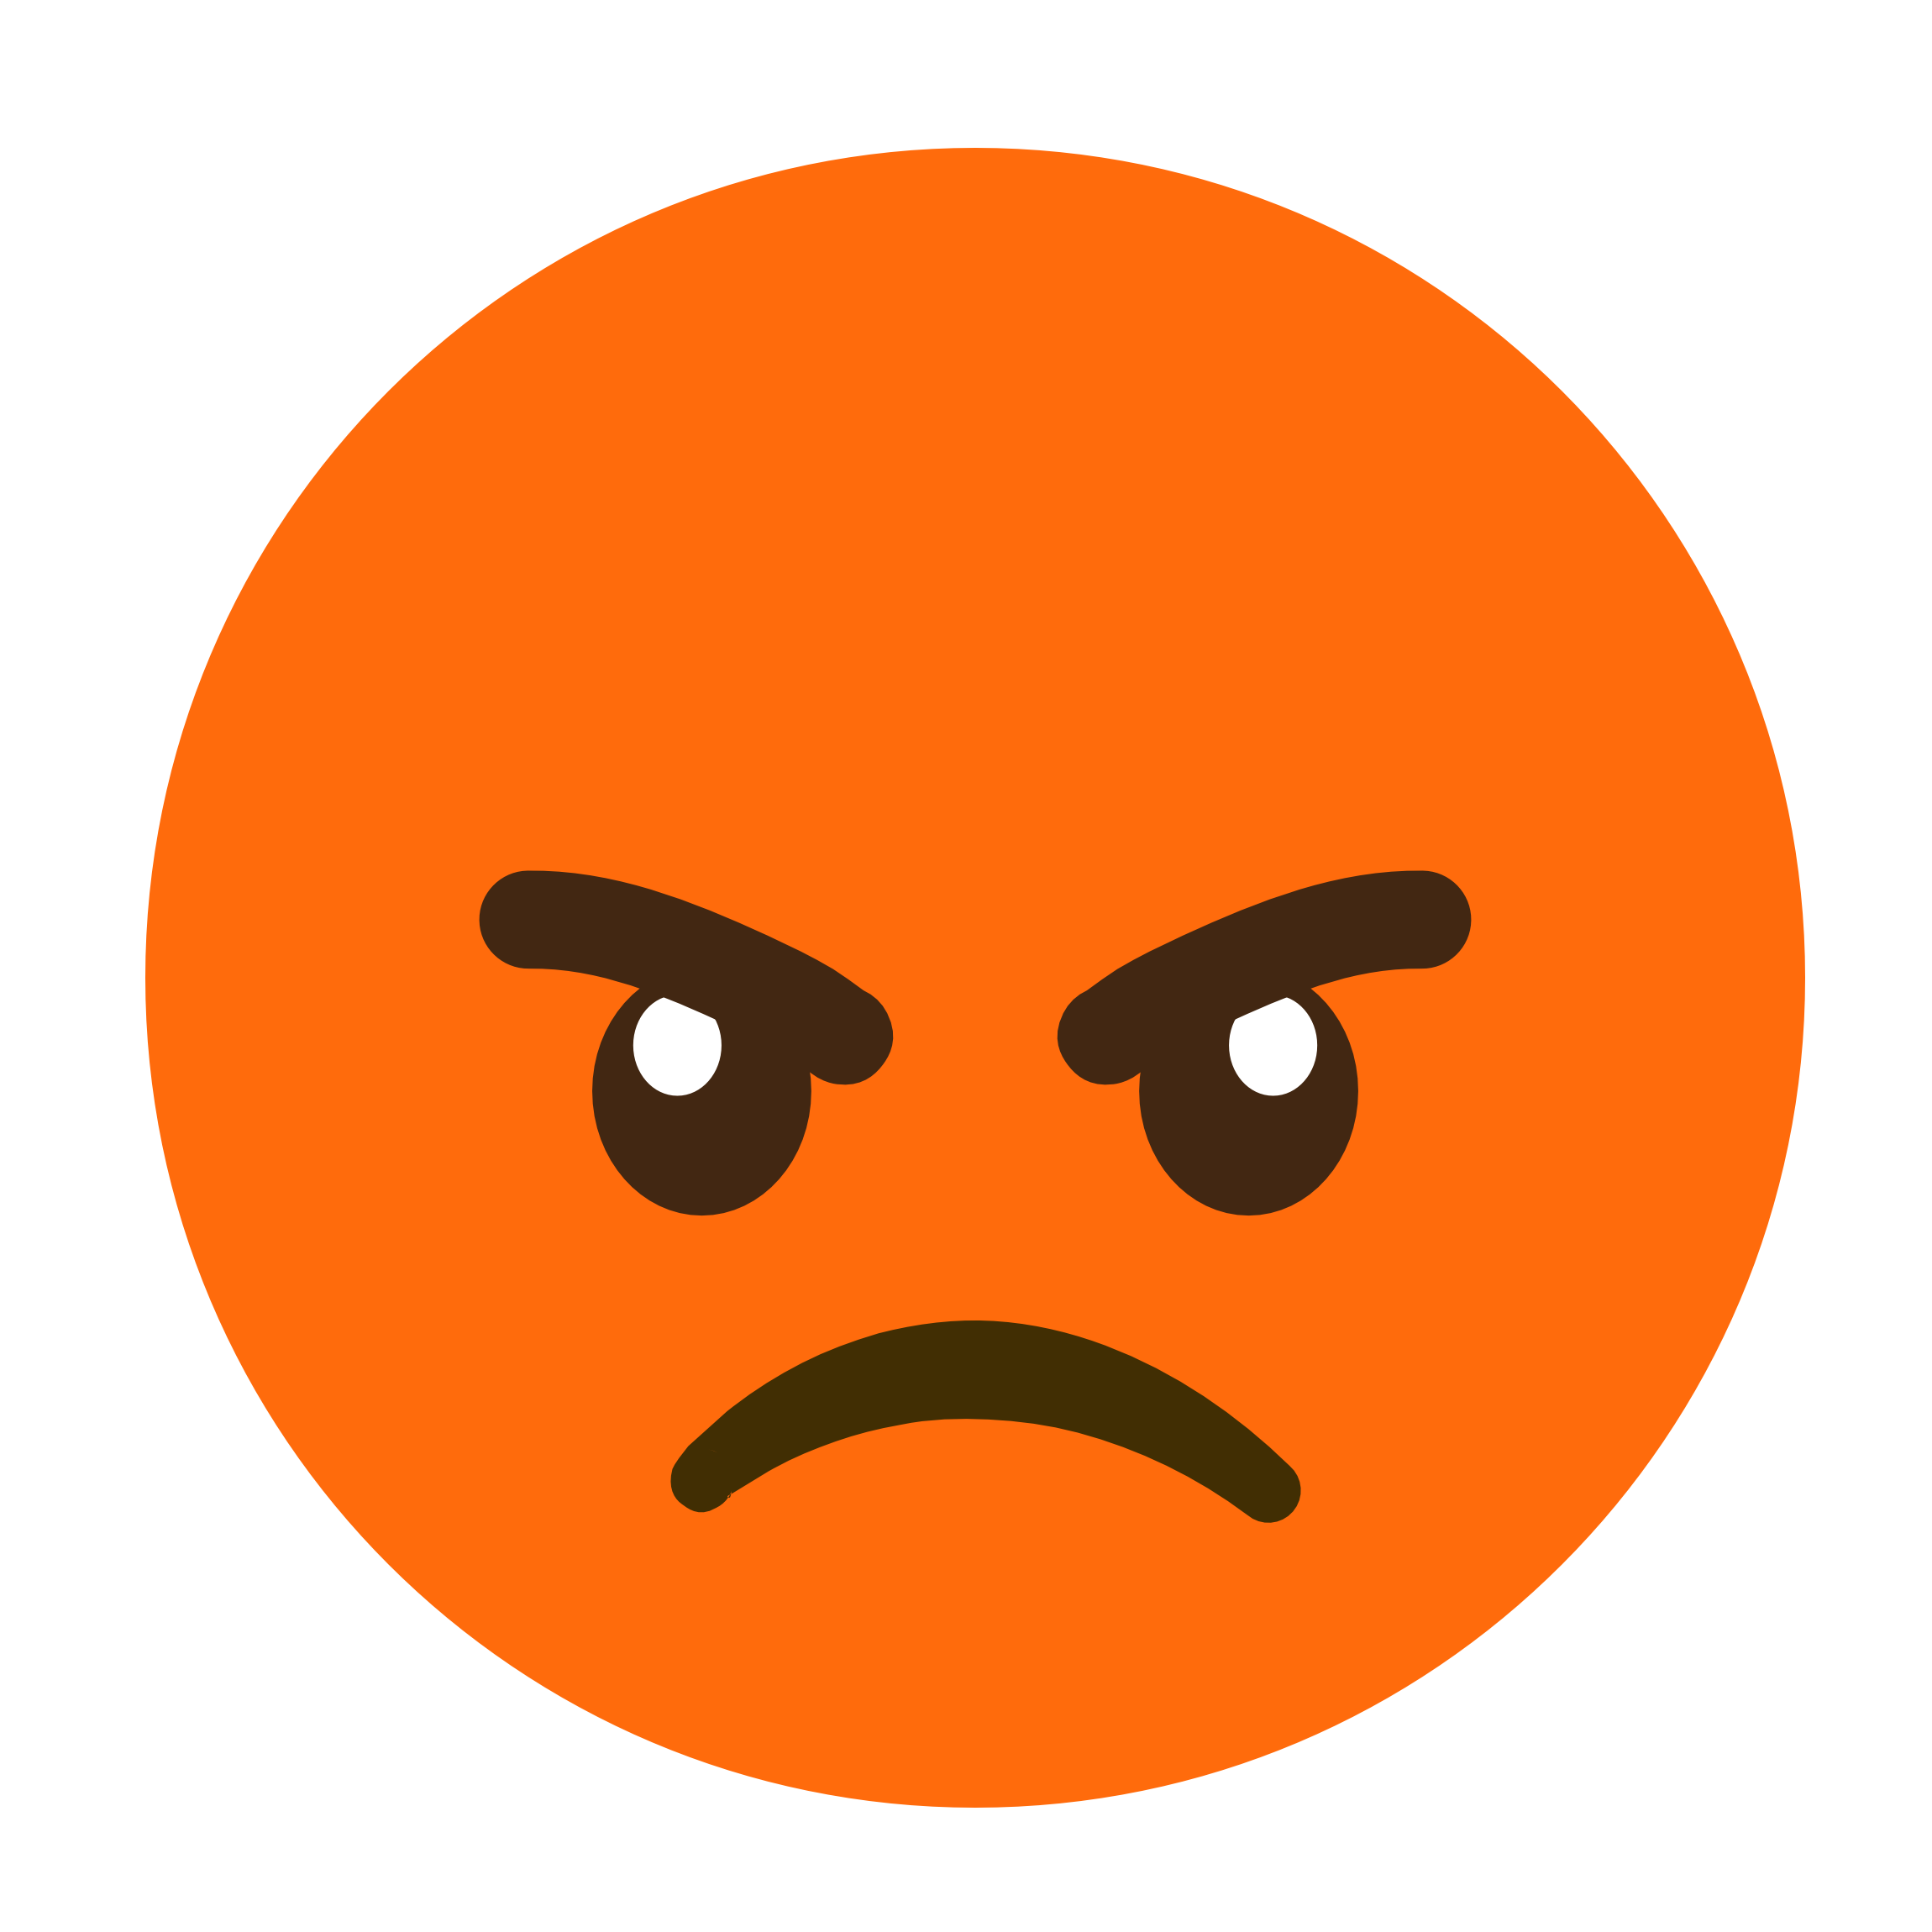
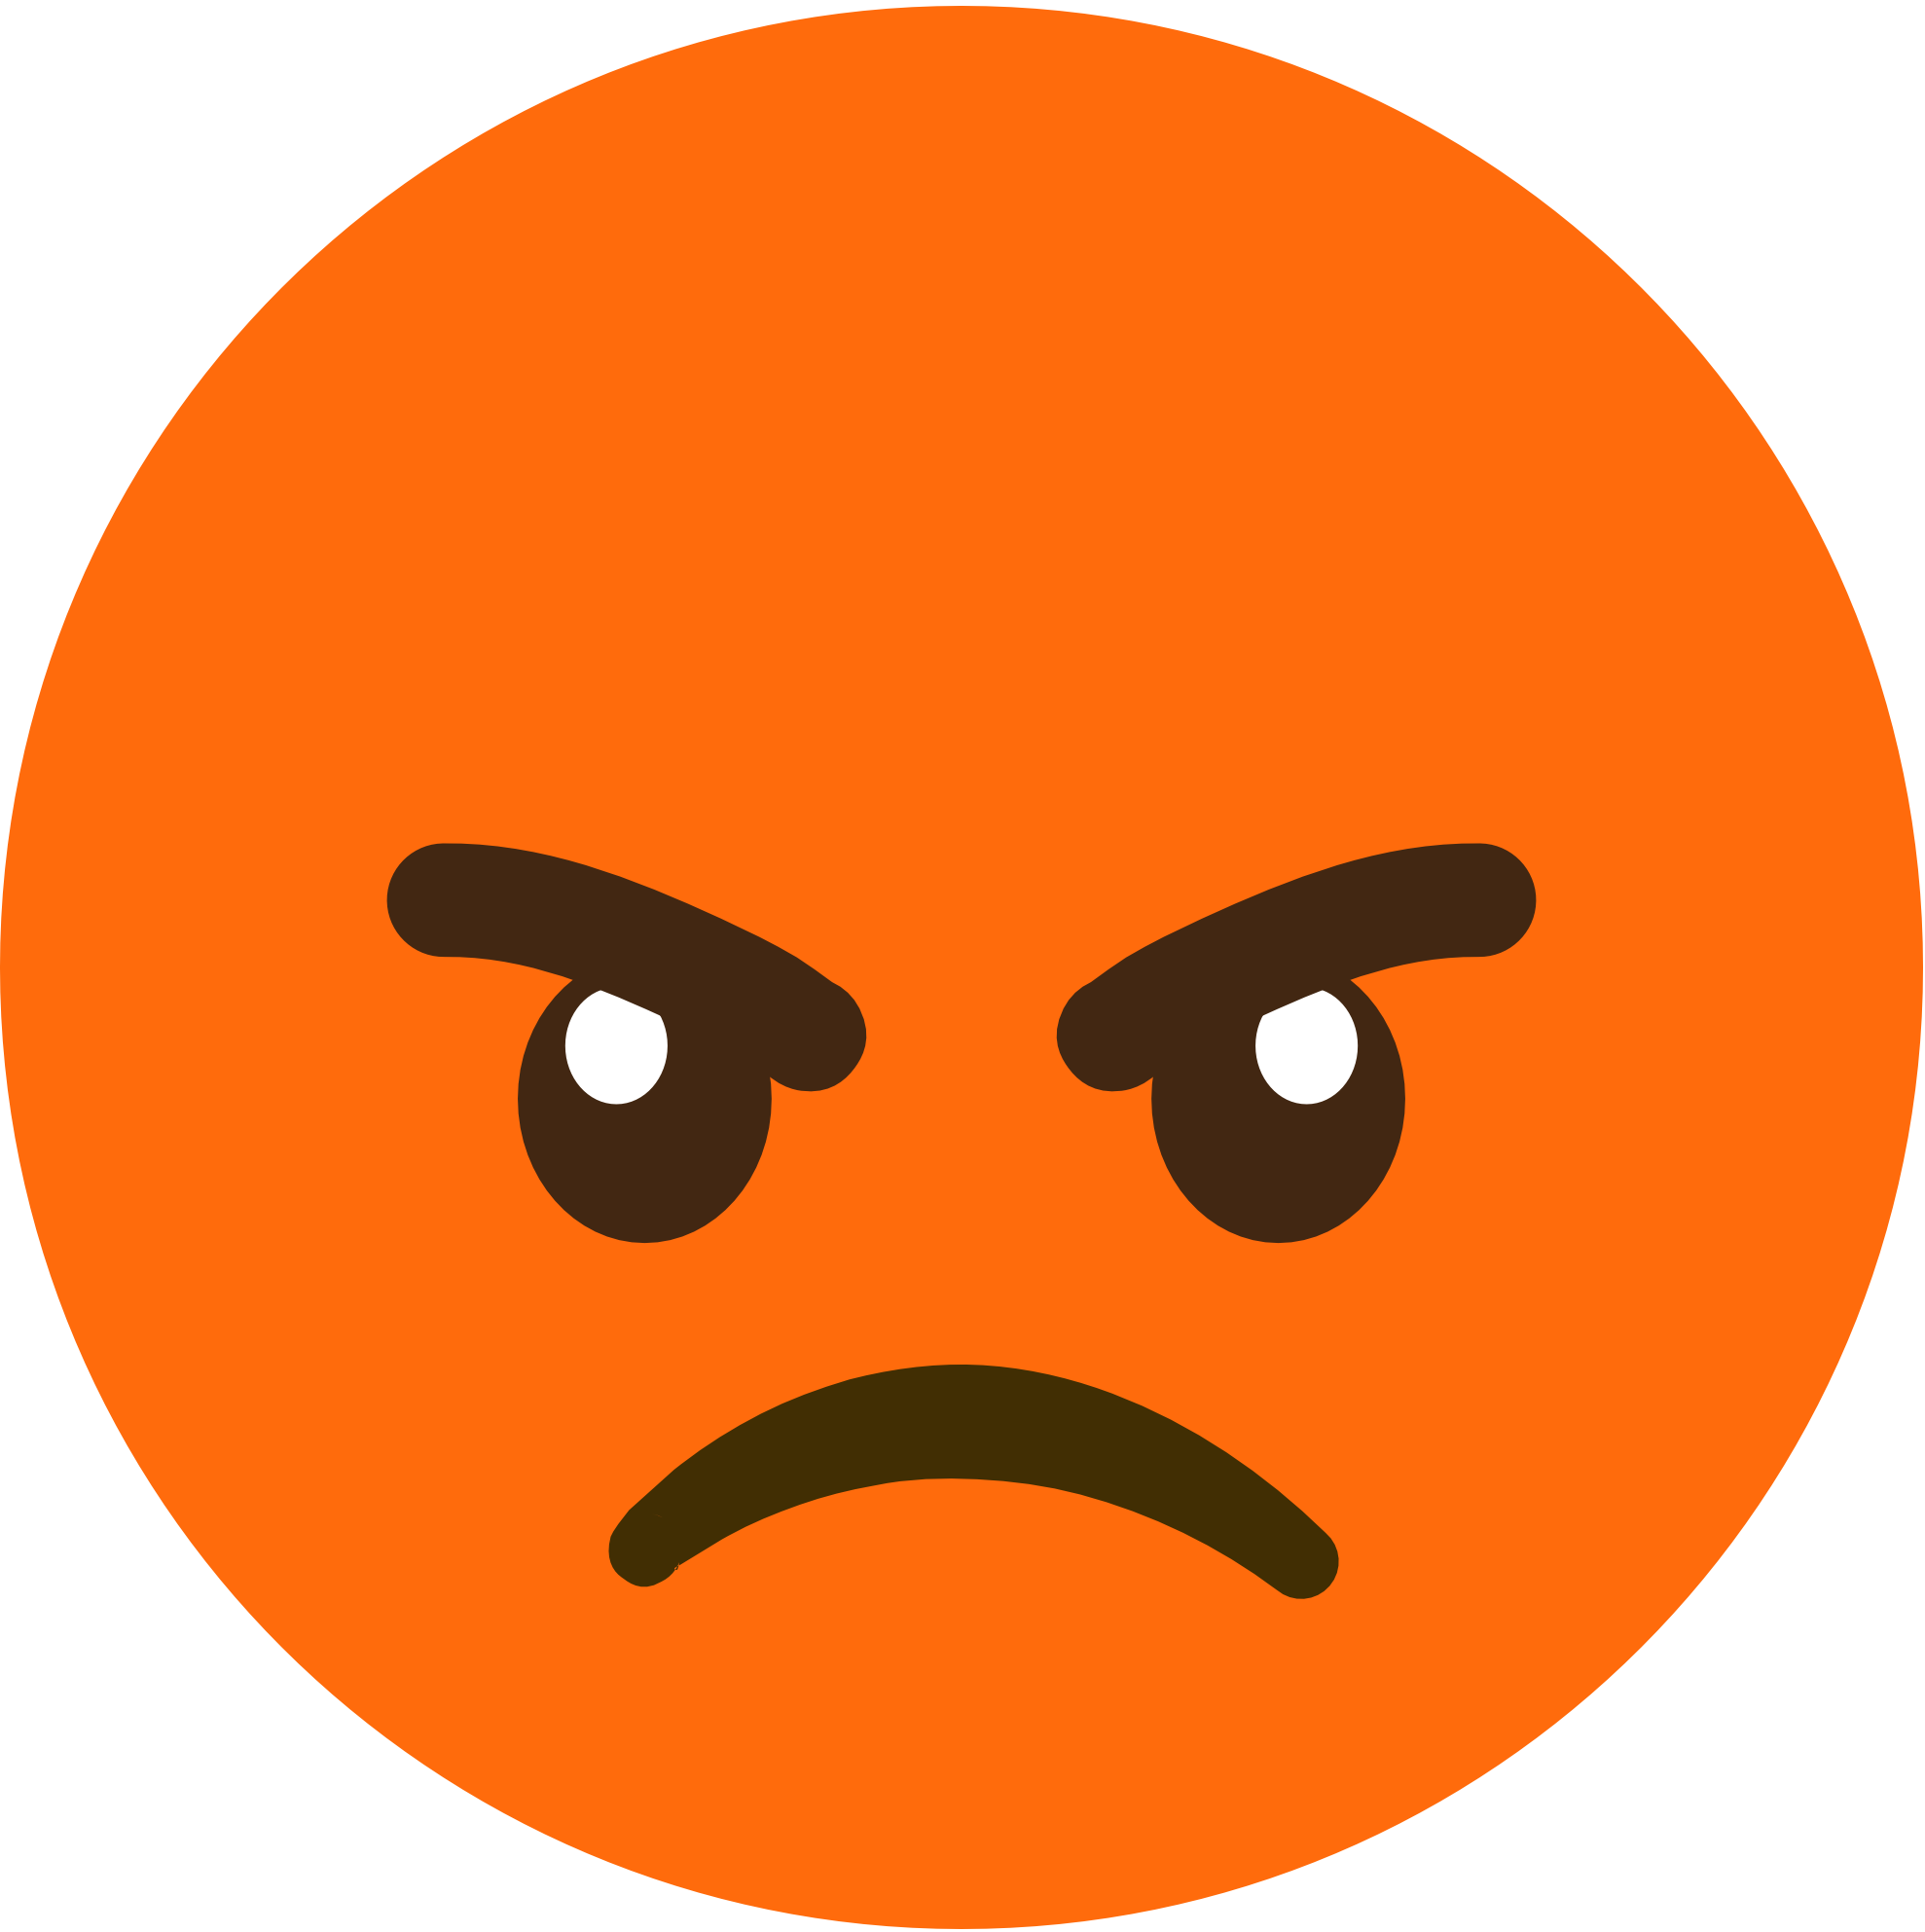
улучшил коллизии, изменил positioncomponent

diff --git a/Components/PositionComponent.cs b/Components/PositionComponent.cs
@@ -1,4 +1,5 @@
-using System;
+using Microsoft.Xna.Framework;
+using System;
 using System.Collections.Generic;
 using System.Linq;
 using System.Text;
@@ -8,13 +9,13 @@ namespace GameProject.Components
 {
     public class PositionComponent
     {
-        public float x;
-        public float y;
+        public float X { get { return vector.X; } set { vector.X = value; } }
+        public float Y { get { return vector.Y; } set { vector.Y = value; } }
+        Vector2 vector;
 
         public PositionComponent(float x, float y)
         {
-            this.x = x;
-            this.y = y;
+            vector = new Vector2(x, y);
         }
     }
 }

diff --git a/Components/CollisionComponent.cs b/Components/CollisionComponent.cs
@@ -15,10 +15,10 @@ namespace GameProject.Components
 
         public void CheckCollision(Player object1, Enemy object2)
         {
-            object1Bounds = new Rectangle((int)object1.currentPosition.x, 
-                (int)object1.currentPosition.y, (int)object1.Wigth, (int)object1.Height);
-            object2Bounds = new Rectangle((int)object2.currentPosition.x, 
-                (int)object2.currentPosition.y, (int)object2.Wigth, (int)object2.Height);
+            object1Bounds = new Rectangle((int)object1.currentPosition.X, 
+                (int)object1.currentPosition.Y, (int)object1.Wigth, (int)object1.Height);
+            object2Bounds = new Rectangle((int)object2.currentPosition.X, 
+                (int)object2.currentPosition.Y, (int)object2.Wigth, (int)object2.Height);
 
             if (object1Bounds.IntersectsWith(object2Bounds))
             {

diff --git a/Components/InputComponent.cs b/Components/InputComponent.cs
@@ -34,25 +34,25 @@ namespace GameProject.Components
 
             if (key.IsKeyDown(Keys.W))
             {
-                positionComponent.y -= 1 * (stamina == 0 ? 2 : velocity);
+                positionComponent.Y -= 1 * (stamina == 0 ? 2 : velocity);
                 //OnUp();
             }
                 
             if (key.IsKeyDown(Keys.S))
             {
-                positionComponent.y += 1 * (stamina == 0 ? 2 : velocity);
+                positionComponent.Y += 1 * (stamina == 0 ? 2 : velocity);
                 //OnDown();
             }
                 
             if (key.IsKeyDown(Keys.D))
             {
-                positionComponent.x += 1 * (stamina == 0 ? 2 : velocity);
+                positionComponent.X += 1 * (stamina == 0 ? 2 : velocity);
                 //OnRight();
             }
                 
             if (key.IsKeyDown(Keys.A))
             {
-                positionComponent.x -= 1 * (stamina == 0 ? 2 : velocity);
+                positionComponent.X -= 1 * (stamina == 0 ? 2 : velocity);
                 //OnLeft();
             }        
         }

diff --git a/Components/MoveComponent.cs b/Components/MoveComponent.cs
@@ -17,22 +17,22 @@ namespace GameProject.Components
 
         public void MoveForward()
         {
-            positionComponent.y -= 1.5f;
+            positionComponent.Y -= 1.5f;
         }
 
         public void MoveBackward()
         {
-            positionComponent.y += 1.5f;
+            positionComponent.Y += 1.5f;
         }
 
         public void MoveRight()
         {
-            positionComponent.x += 1.5f;
+            positionComponent.X += 1.5f;
         }
 
         public void MoveLeft()
         {
-            positionComponent.x -= 1.5f;
+            positionComponent.X -= 1.5f;
         }
     }
 }

diff --git a/Enemy.cs b/Enemy.cs
@@ -11,6 +11,7 @@ namespace GameProject
 {
     public class Enemy
     {
+        public Texture2D model;
         Random random;
         RenderComponent render;
         public PositionComponent previousPosition;
@@ -24,6 +25,7 @@ namespace GameProject
 
         public Enemy(Texture2D model, float scale)
         {
+            this.model = model;
             this.wigth = model.Width* scale;
             this.height = model.Height* scale;
             random = new Random();
@@ -35,7 +37,7 @@ namespace GameProject
 
         public void Update()
         {
-            previousPosition = new PositionComponent(currentPosition.x, currentPosition.y);
+            previousPosition = new PositionComponent(currentPosition.X, currentPosition.Y);
             //patrol.Patrol();
         }
 
@@ -46,8 +48,8 @@ namespace GameProject
 
         public void Block()
         {
-            currentPosition.x = previousPosition.x;
-            currentPosition.y = previousPosition.y;
+            currentPosition.X = previousPosition.X;
+            currentPosition.Y = previousPosition.Y;
         }
     }
 }

diff --git a/Player.cs b/Player.cs
@@ -10,6 +10,7 @@ namespace GameProject
 {
     public class Player
     {
+        public Texture2D model;
         public PositionComponent previousPosition;
         public PositionComponent currentPosition;
         public RenderComponent render;
@@ -22,6 +23,7 @@ namespace GameProject
 
         public Player(Texture2D model, float x, float y, float scale)
         {
+            this.model = model;
             this.wigth = model.Width * scale;
             this.height = model.Height * scale;
             currentPosition = new PositionComponent(x, y);
@@ -32,7 +34,7 @@ namespace GameProject
 
         public void Update()
         {
-            previousPosition = new PositionComponent(currentPosition.x, currentPosition.y);
+            previousPosition = new PositionComponent(currentPosition.X, currentPosition.Y);
             input.Update(currentPosition);
         }
 
@@ -43,8 +45,8 @@ namespace GameProject
 
         public void Block()
         {
-            currentPosition.x = previousPosition.x;
-            currentPosition.y = previousPosition.y;
+            currentPosition.X = previousPosition.X;
+            currentPosition.Y = previousPosition.Y;
         }
     }
 }

diff --git a/Components/RenderComponent.cs b/Components/RenderComponent.cs
@@ -21,7 +21,7 @@ namespace GameProject.Components
 
         public void Draw(SpriteBatch spriteBatch, PositionComponent positionComponent)
         {
-            spriteBatch.Draw(model, new Vector2(positionComponent.x, positionComponent.y), null, Color.White, 
+            spriteBatch.Draw(model, new Vector2(positionComponent.X, positionComponent.Y), null, Color.White, 
                 0.0f, Vector2.Zero, scale, SpriteEffects.None, 0.0f);
         }
     }